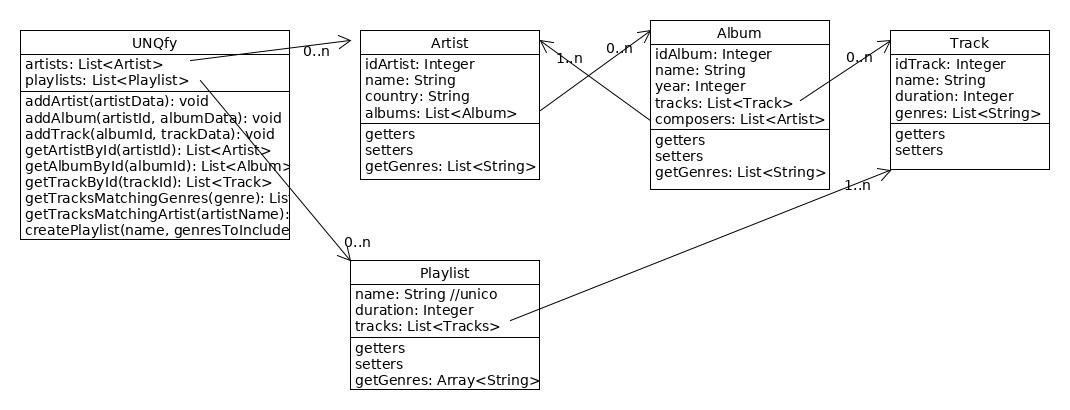
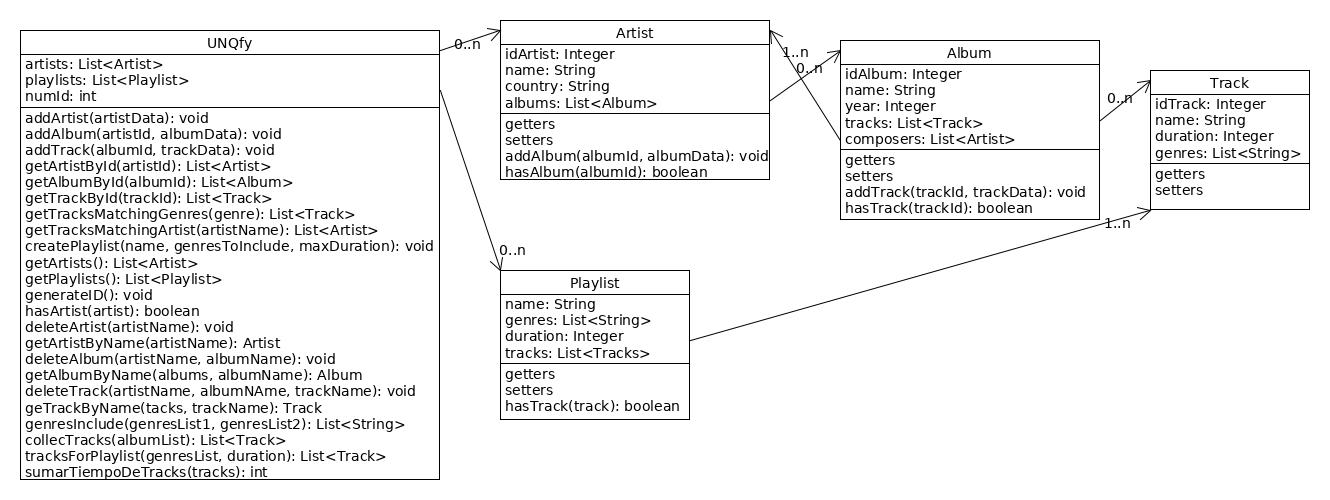
Actualizado el diagrama UML con mensajes adicionales que fueron creandose en el modelo

diff --git a/album.js b/album.js
@@ -49,10 +49,6 @@ class Album{
         this.composers = composers;
     }
 
-    // Retorna los generos del album, que son todos los generos de sus tracks
-    //getGenres(){}
-
-
     // Agrega un track al album, si el id del track ya estaba en el album lanza una excepcion,
     // de lo contrario crea un track, lo agrega al album y lo retorna
     addTrack(trackId, trackData){

diff --git a/unqfy.js b/unqfy.js
@@ -206,6 +206,7 @@ class UNQfy {
     return res;
   }
   
+  //Dada una lsita de albumes mapea todos a sus tracks y los retorna en lista
   collecTracks(listAlbums){
     let resultadoTracks = listAlbums.map((fAlbum) => fAlbum.getTracks());
     let flatResultado = resultadoTracks.reduce(function(a, b) { 
